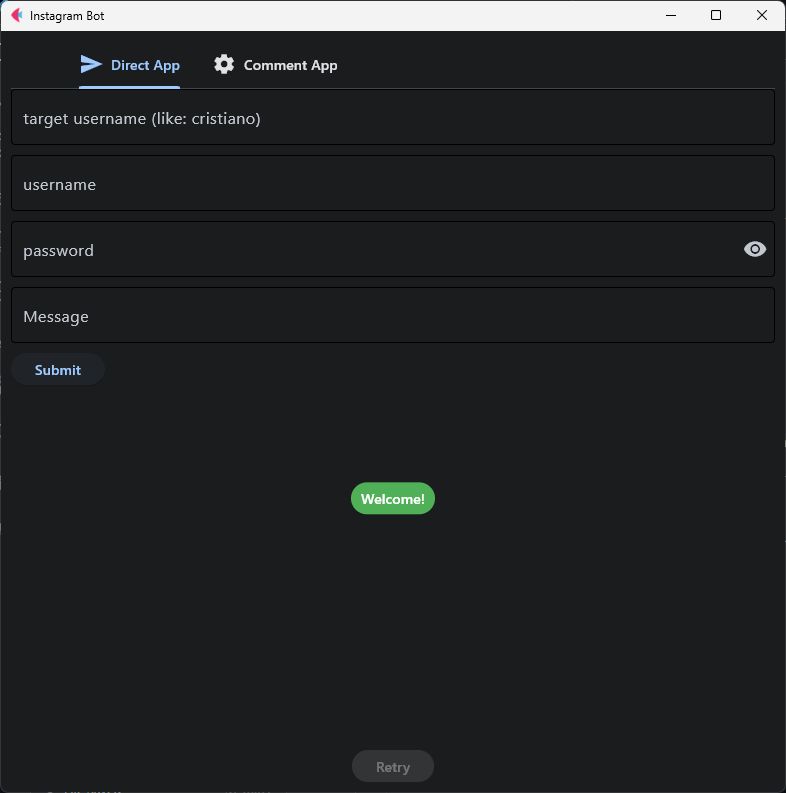
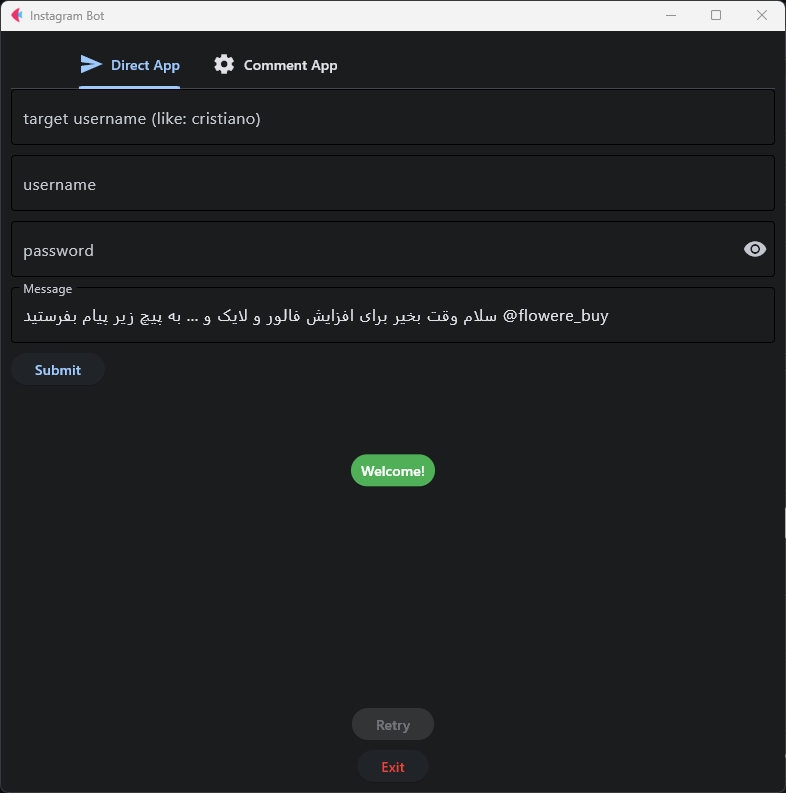
update screenshot of project

diff --git a/main.py b/main.py
@@ -322,8 +322,11 @@ def main(page: ft.Page):
     lv = ft.ListView(expand=2, spacing=10, padding=20, auto_scroll=True)
 
     def exit_def(e):
-        driver.close()
-        page.window_close()
+        try:
+            page.window_close()
+            driver.close()
+        except:
+            pass
 
     exit_btn = ft.ElevatedButton(text="Exit", color="red", on_click=exit_def)
     page.add(t, resulte, lv, retry_btn, exit_btn)
